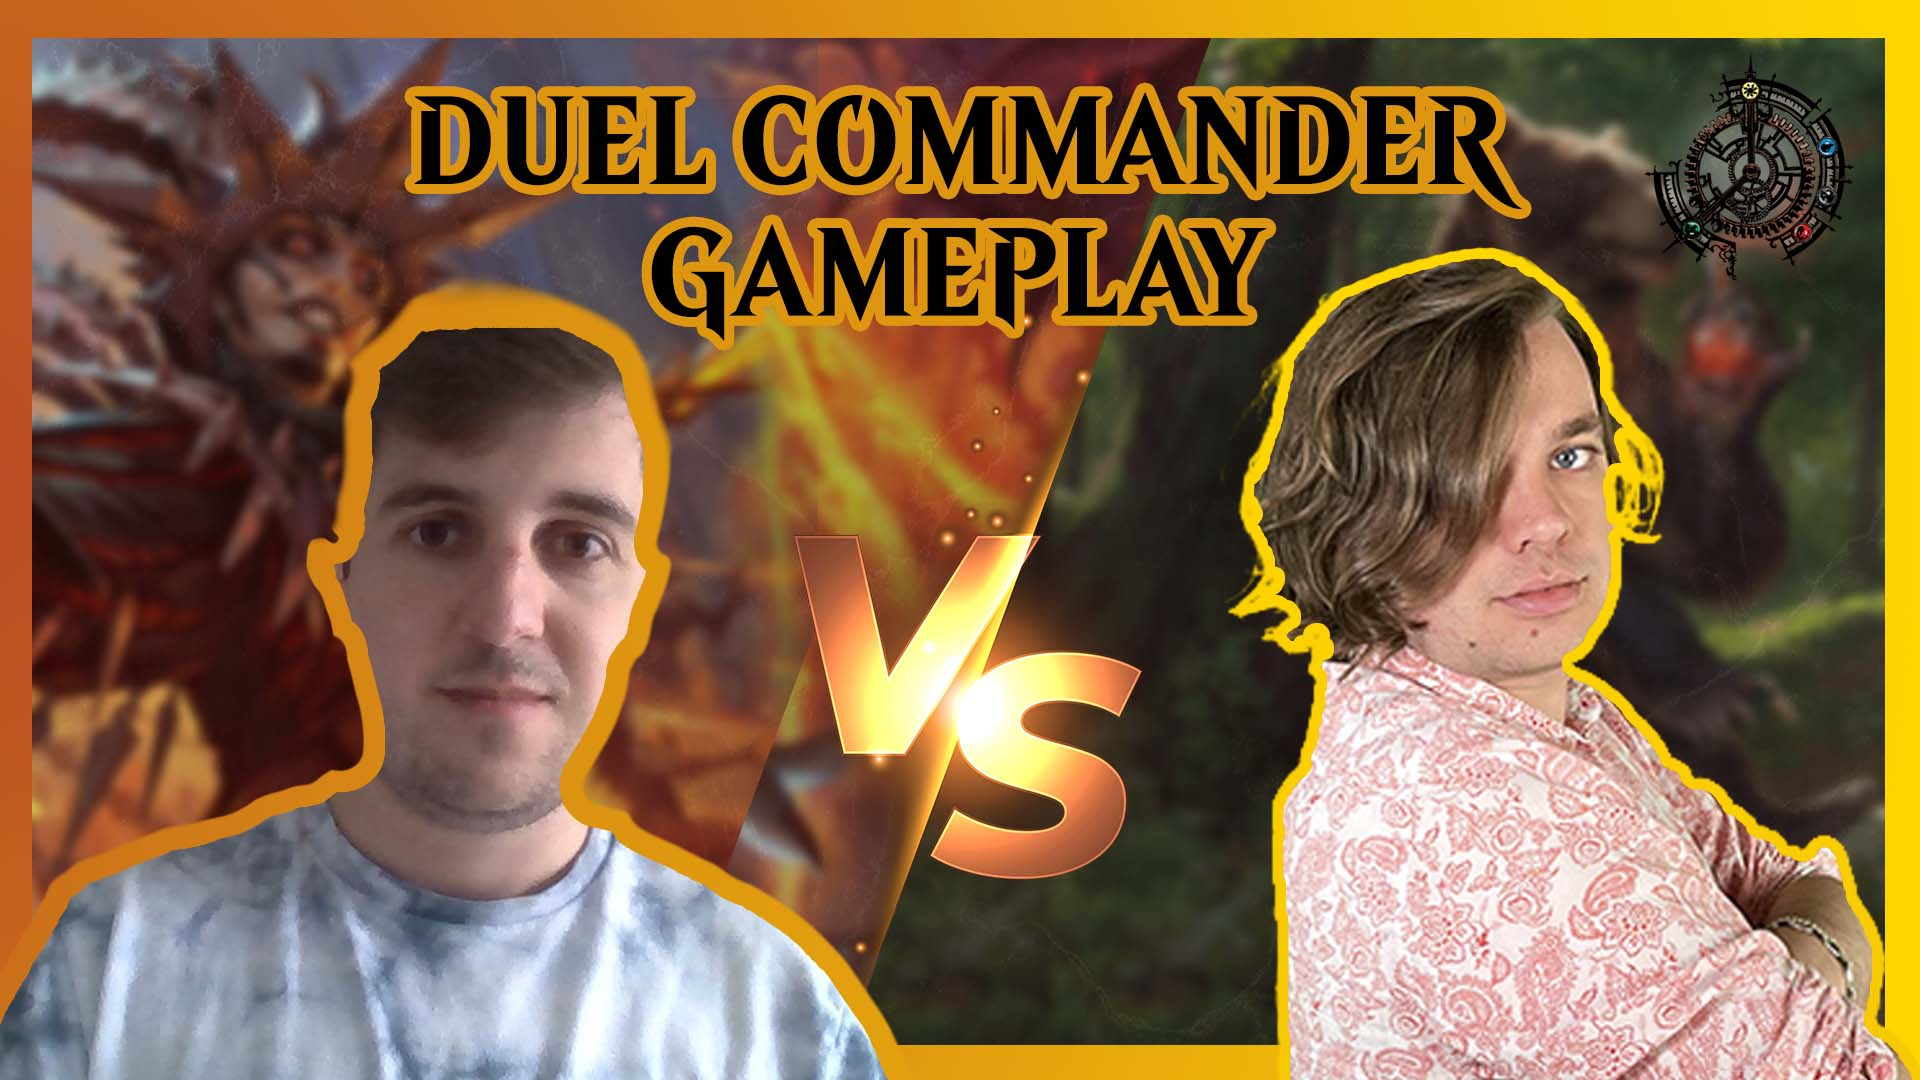
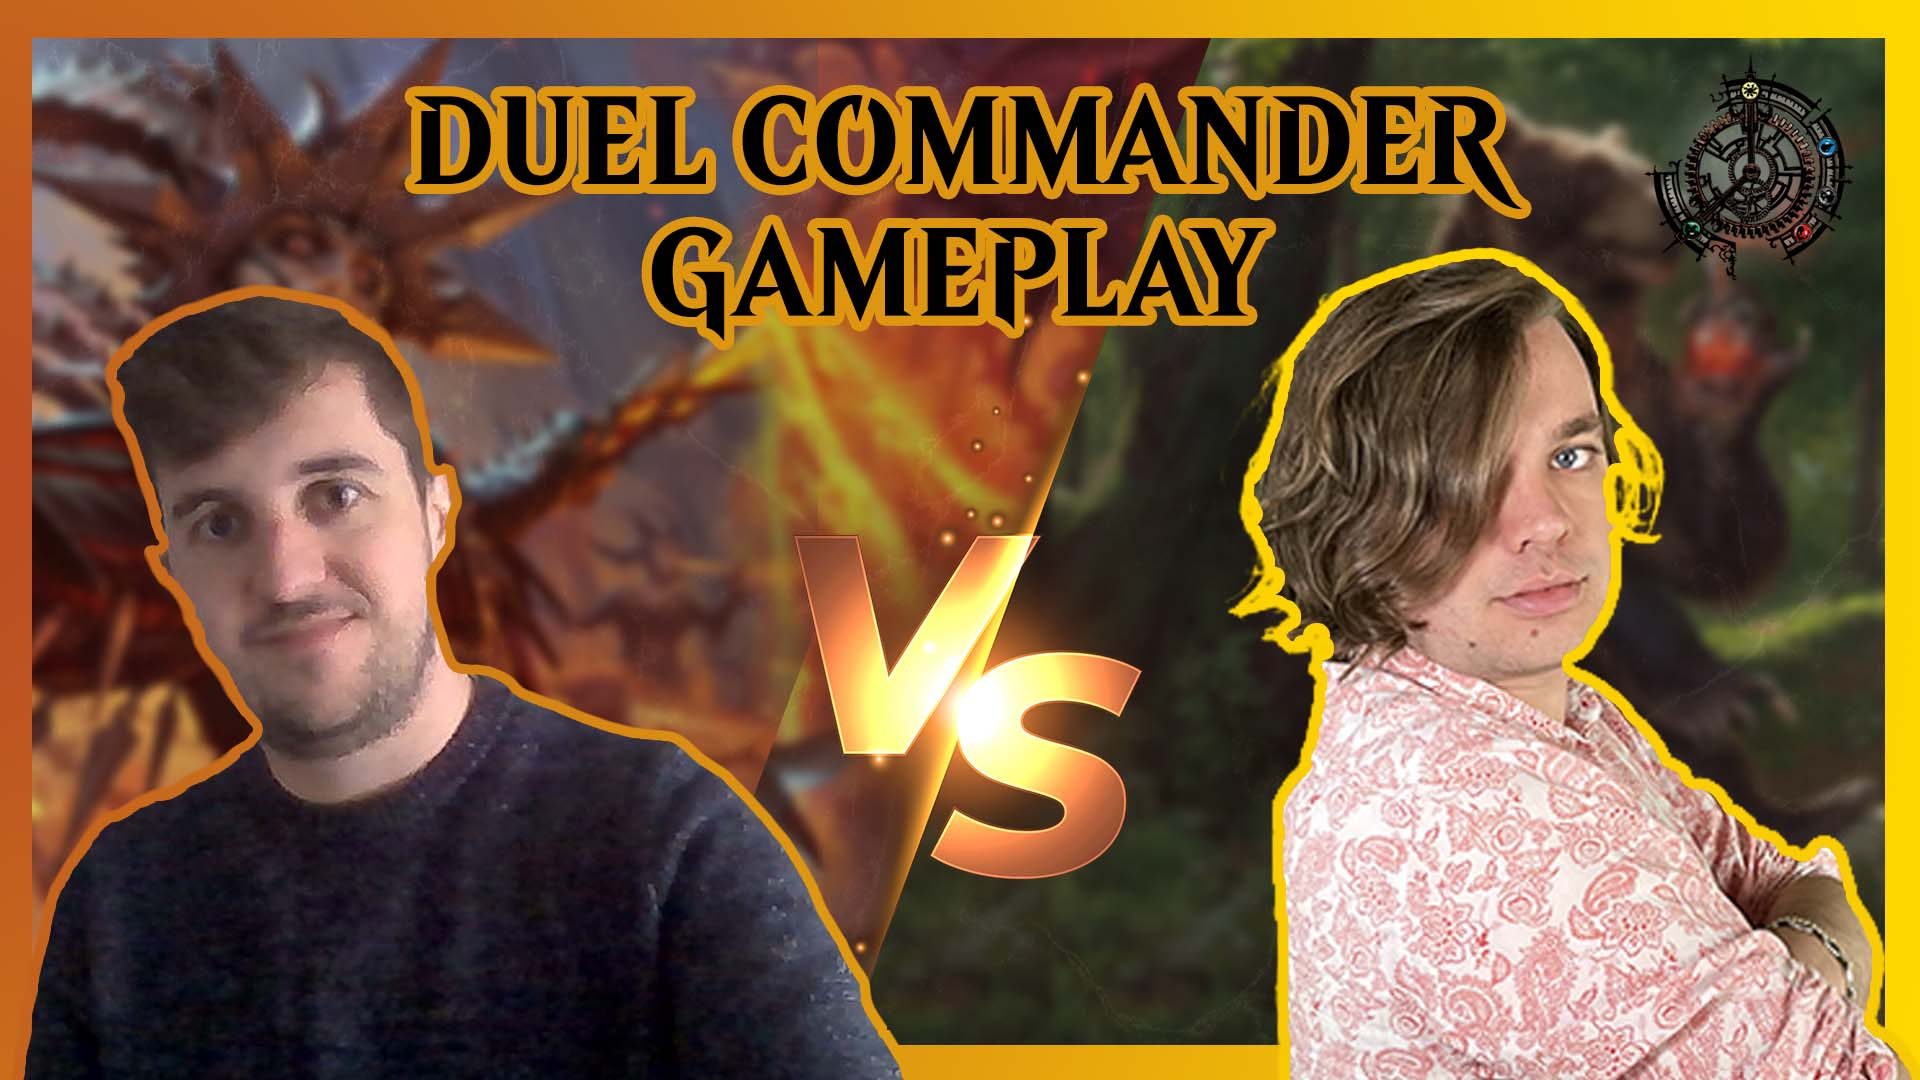
Changement de pp pour nicolasp

Changed region(s): [[0.0, 0.2444, 0.4688, 1.0]]

diff --git a/CHANGELOG.rst b/CHANGELOG.rst
@@ -4,7 +4,7 @@ Changelog
 9.2.2 (unreleased)
 ------------------
 
-- Nothing changed yet.
+- Changement de pp pour nicolasp
 
 
 9.2.1 (2022-11-14)
